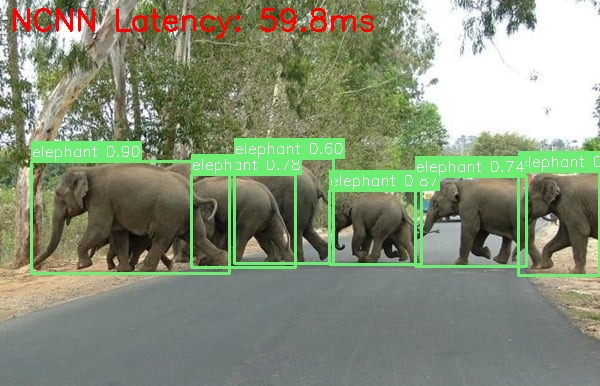
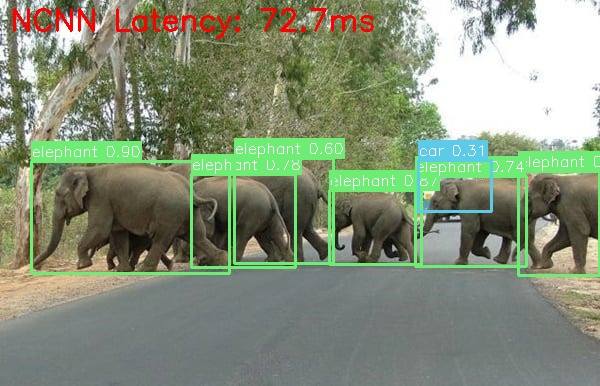
added debuf\g

Changed region(s): [[0.69, 0.342, 0.84, 0.5596], [0.42, 0.0, 0.57, 0.0933]]

diff --git a/yolo/debug_ncnn_classes.py b/yolo/debug_ncnn_classes.py
@@ -1,0 +1,52 @@
+import ncnn
+import cv2
+import numpy as np
+import os
+
+SCRIPT_DIR = os.path.dirname(os.path.abspath(__file__))
+PARAM_PATH = os.path.join(SCRIPT_DIR, "yolo26n_ncnn_model", "model.ncnn.param")
+BIN_PATH = os.path.join(SCRIPT_DIR, "yolo26n_ncnn_model", "model.ncnn.bin")
+IMAGE_PATH = os.path.join(SCRIPT_DIR, "images", "tripleriding.jpeg")
+
+def preprocess(image, input_size=(640,640)):
+    h, w = image.shape[:2]
+    scale = min(input_size[0] / h, input_size[1] / w)
+    new_h, new_w = int(h * scale), int(w * scale)
+    resized = cv2.resize(image, (new_w, new_h))
+    padded = np.full((input_size[0], input_size[1], 3), 114, dtype=np.uint8)
+    pad_h = (input_size[0] - new_h) // 2
+    pad_w = (input_size[1] - new_w) // 2
+    padded[pad_h:pad_h + new_h, pad_w:pad_w + new_w] = resized
+    mat_in = ncnn.Mat.from_pixels(padded, ncnn.Mat.PixelType.PIXEL_BGR2RGB, padded.shape[1], padded.shape[0])
+    mean_vals = [0.0, 0.0, 0.0]
+    norm_vals = [1/255.0, 1/255.0, 1/255.0]
+    mat_in.substract_mean_normalize(mean_vals, norm_vals)
+    return mat_in
+
+net = ncnn.Net()
+net.load_param(PARAM_PATH)
+net.load_model(BIN_PATH)
+
+image = cv2.imread(IMAGE_PATH)
+mat_in = preprocess(image)
+
+with net.create_extractor() as ex:
+    ex.input("in0", mat_in)
+    _, mat_out = ex.extract("out0")
+    
+output = np.array(mat_out)
+print("Shape:", output.shape)
+if len(output.shape) == 3:
+    output = output[0]
+
+if len(output.shape) == 2 and output.shape[1] == 6:
+    print("Found End-to-End [300, 6] format!")
+    
+    # Check the 4th and 5th columns to see which one is confidence vs class_id
+    # We'll just print the first 15 rows
+    for i in range(15):
+        det = output[i]
+        x1, y1, x2, y2, val1, val2 = det
+        print(f"Row {i} - Box: [{x1:.1f}, {y1:.1f}, {x2:.1f}, {y2:.1f}], Val1: {val1:.4f}, Val2: {val2:.4f}")
+else:
+    print("Not standard end2end format")
